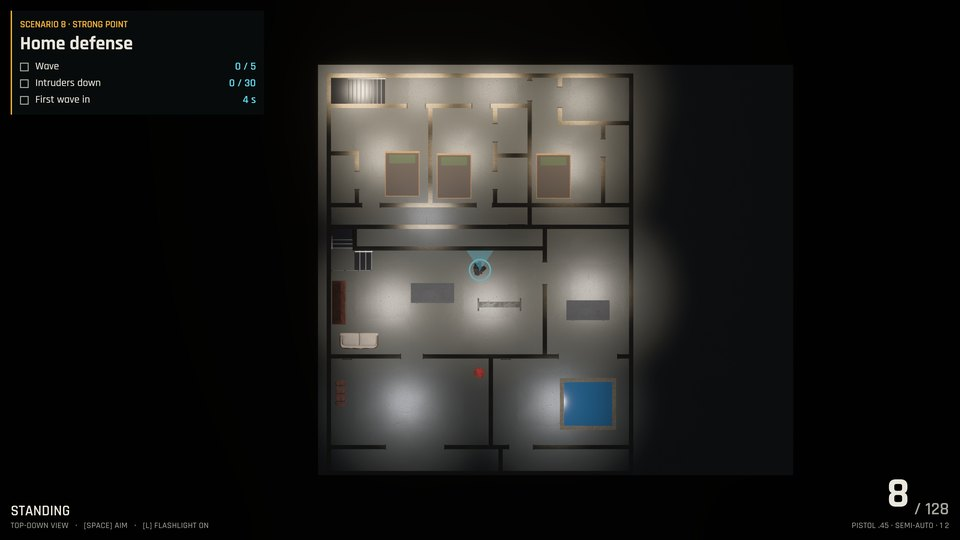
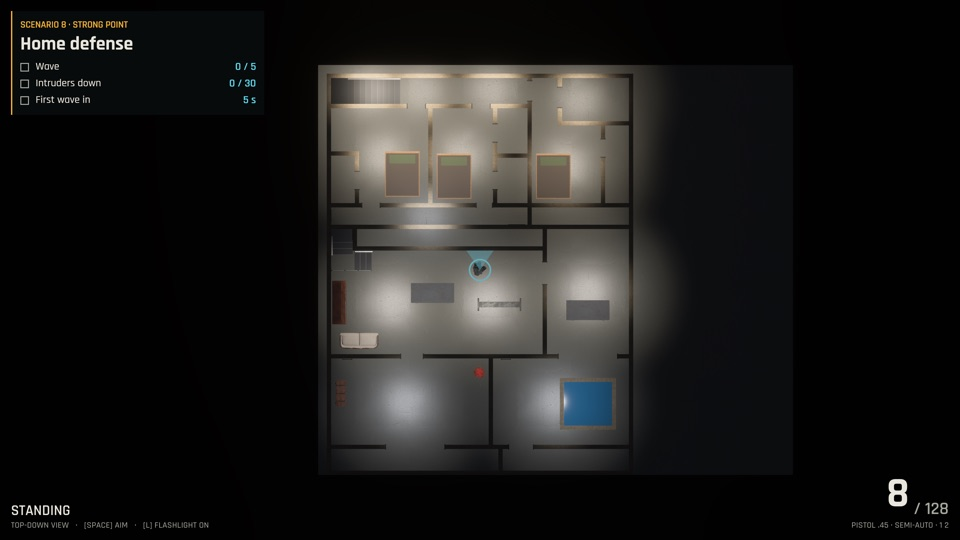
Signed app bundle with assets in Resources (fixes 'damaged' on download), clearer upstairs staircase; release 0.9.2

diff --git a/src/map.rs b/src/map.rs
@@ -413,7 +413,7 @@ pub static MAPS: [MapDef; 6] = [
             op("Suite 1 door", "S1", 3.6, 1.4, 4.5, 1.4, 0.0, 1.0, None), op("Suite 2 door", "S2", 6.6, 1.4, 7.5, 1.4, 0.0, 1.0, None), op("Master suite door", "Ms", 9.3, 0.2, 9.3, 1.2, 1.0, 0.0, None),
             op("Front door", "Lv", 3.3, 13.0, 4.4, 13.0, 0.0, -1.0, None), op("Gourmet opening", "Gm", 10.6, 13.0, 13.4, 13.0, 0.0, -1.0, None), op("Garage gate", "Yd", 2.6, 17.2, 5.4, 17.2, 0.0, -1.0, None),
         ],
-        lights: &[lt(1.4, 0.7, WARM, 0.85, false), lt(4.3, 0.7, WARM, 0.7, false), lt(7.6, 0.7, WARM, 0.7, false), lt(2.6, 3.7, WARM, 0.85, false), lt(6.2, 3.7, WARM, 0.85, false), lt(11.0, 4.1, WARM, 0.9, false), lt(11.6, 1.1, WARM, 0.6, false),
+        lights: &[lt(1.9, 0.7, WARM, 0.9, false), lt(4.3, 0.7, WARM, 0.7, false), lt(7.6, 0.7, WARM, 0.7, false), lt(2.6, 3.7, WARM, 0.85, false), lt(6.2, 3.7, WARM, 0.85, false), lt(11.0, 4.1, WARM, 0.9, false), lt(11.6, 1.1, WARM, 0.6, false),
             lt(4.6, 6.5, COOL, 0.35, false),
             lt(3.0, 10.5, NEUTRAL, 0.95, false), lt(7.4, 10.5, NEUTRAL, 0.95, false), lt(12.0, 10.0, NEUTRAL, 0.9, false), lt(3.6, 15.1, COOL, 0.6, false), lt(10.6, 15.1, COOL, 0.6, false)],
         // dez invasores de reserva: esperam na rua, fora da vista de quem está na casa, até a onda chamá-los
@@ -449,9 +449,9 @@ pub static MAPS: [MapDef; 6] = [
         // escada é uma passagem: o lance entra num vão escuro e continua no vão escuro do outro andar.
         portals: &[
             // sobe: do alto do lance do térreo ao patamar de baixo da escada do andar de cima
-            Portal { x1: 0.5, z1: 7.12, x2: 1.08, z2: 7.6, ex: 0.5, ez: 0.45, yaw: -1.5708, player: true, alt: false, ha: (1.6, 7.35), hb: (0.5, 1.85) },
+            Portal { x1: 0.5, z1: 7.12, x2: 1.08, z2: 7.6, ex: 0.8, ez: 0.7, yaw: -1.5708, player: true, alt: false, ha: (1.6, 7.35), hb: (-0.4, 0.7) },
             // desce: do patamar de baixo da escada de cima ao alto do lance do térreo
-            Portal { x1: 0.12, z1: 0.8, x2: 0.85, z2: 1.28, ex: 0.3, ez: 7.4, yaw: 3.1416, player: true, alt: false, ha: (0.5, 1.85), hb: (1.6, 7.35) },
+            Portal { x1: 0.12, z1: 0.12, x2: 0.55, z2: 1.28, ex: 0.3, ez: 7.4, yaw: 3.1416, player: true, alt: false, ha: (-0.4, 0.7), hb: (1.6, 7.35) },
             // escada de mão no canto do quintal: quem conhece o caminho sobe por ela e entra pela ponta da sacada
             Portal { x1: 0.3, z1: 13.3, x2: 1.4, z2: 14.0, ex: 0.75, ez: 6.5, yaw: 0.0, player: false, alt: true, ha: (0.85, 13.45), hb: (-0.4, 6.5) },
             // e pelo lado da piscina: sobe junto ao muro e entra pela outra ponta da sacada, perto da porta-balcão da suíte do meio
@@ -460,13 +460,15 @@ pub static MAPS: [MapDef; 6] = [
         ramps: &[
             // térreo: lance de baixo (sobe para oeste), patamar da curva e lance de cima (sobe para o norte, dentro do nicho)
             Ramp { x1: 1.19, z1: 8.1, x2: 2.0, z2: 9.0, along_x: true, a: 2.0, b: 1.19, ha: 0.0, hb: 0.57 },
+            // (o lance de cima vem antes do patamar na lista: onde os dois retângulos se cruzam vale o lance)
+            Ramp { x1: 0.1, z1: 7.1, x2: 1.1, z2: 8.3, along_x: false, a: 8.3, b: 7.45, ha: 0.57, hb: 1.14 },
             Ramp { x1: 0.1, z1: 8.0, x2: 1.19, z2: 9.0, along_x: true, a: 1.19, b: 0.1, ha: 0.57, hb: 0.57 },
-            Ramp { x1: 0.1, z1: 7.1, x2: 1.1, z2: 8.0, along_x: false, a: 8.0, b: 7.43, ha: 0.57, hb: 1.14 },
-            // andar de cima: do fim do corredor desce para oeste até o patamar de baixo
-            Ramp { x1: 0.1, z1: 0.1, x2: 2.6, z2: 1.3, along_x: true, a: 2.6, b: 0.9, ha: 0.0, hb: -1.66 },
+            // andar de cima: do fim do corredor desce para oeste, nove degraus de 27 cm, até o patamar de baixo
+            Ramp { x1: 0.1, z1: 0.1, x2: 3.3, z2: 1.3, along_x: true, a: 3.3, b: 0.9, ha: 0.0, hb: -1.66 },
         ],
-        pit: Some((0.1, 0.1, 2.6, 1.3, 1.66)),
-        darks: &[(1.085, 1.14, 7.12, 1.1, 2.78, 7.6), (0.12, -1.66, 1.285, 0.85, -0.02, 1.3), (0.1, 0.0, 6.2, 0.115, 2.0, 6.8), (8.3, 0.0, 6.885, 9.1, 2.0, 6.9)],
+        pit: Some((0.1, 0.1, 3.3, 1.3, 1.66)),
+        // vãos escuros: no alto do lance do térreo (parede do nicho), no fim da descida do andar de cima (em frente) e nas pontas da sacada
+        darks: &[(1.085, 1.14, 7.12, 1.1, 2.78, 7.6), (0.1, -1.66, 0.12, 0.115, -0.02, 1.28), (0.1, 0.0, 6.2, 0.115, 2.0, 6.8), (8.3, 0.0, 6.885, 9.1, 2.0, 6.9)],
     },
 ];
 

diff --git a/src/world.rs b/src/world.rs
@@ -318,8 +318,8 @@ pub fn spawn_map(commands: &mut Commands, meshes: &mut Assets<Mesh>, mats: &mut 
     // escuros por onde a escada continua para o outro andar e as escadas de mão do quintal. Os degraus são só desenho: a
     // altura de quem anda neles vem de `ramp_h`.
     if !map().ramps.is_empty() || !map().portals.is_empty() {
-        let granite = mats.add(StandardMaterial { base_color: Color::srgb(0.07, 0.07, 0.078), perceptual_roughness: 0.2, reflectance: 0.6, ..default() });
-        let pale = mats.add(StandardMaterial { base_color: Color::srgb(0.42, 0.42, 0.44), perceptual_roughness: 0.35, ..default() });
+        let granite = mats.add(StandardMaterial { base_color: Color::srgb(0.13, 0.13, 0.14), perceptual_roughness: 0.32, reflectance: 0.5, ..default() });
+        let pale = mats.add(StandardMaterial { base_color: Color::srgb(0.27, 0.27, 0.285), perceptual_roughness: 0.3, ..default() });
         let white = mats.add(StandardMaterial { base_color: Color::srgb(0.86, 0.86, 0.84), perceptual_roughness: 0.5, ..default() });
         let dark = mats.add(StandardMaterial { base_color: Color::BLACK, unlit: true, ..default() });
         let (mut steps, mut ladders, mut holes, mut lining) = (Vec::new(), Vec::new(), Vec::new(), Vec::new());
@@ -338,7 +338,7 @@ pub fn spawn_map(commands: &mut Commands, meshes: &mut Assets<Mesh>, mats: &mut 
                 steps.push(slab(c0, c1 + (c1 - c0).signum() * 0.004, h));
                 // friso claro na quina de cada degrau (o granito preto some no escuro) e corrimão branco na parede
                 let edge = if r.hb > r.ha { c0 } else { c1 };
-                let (e0, e1) = (edge.min(edge + (c1 - c0).signum() * if r.hb > r.ha { 0.04 } else { -0.04 }), edge.max(edge + (c1 - c0).signum() * if r.hb > r.ha { 0.04 } else { -0.04 }));
+                let (e0, e1) = (edge.min(edge + (c1 - c0).signum() * if r.hb > r.ha { 0.022 } else { -0.022 }), edge.max(edge + (c1 - c0).signum() * if r.hb > r.ha { 0.022 } else { -0.022 }));
                 nosing.push(if r.along_x { b3(e0, h, r.z1 + 0.002, e1, h + 0.006, r.z2 - 0.002) } else { b3(r.x1 + 0.002, h, e0, r.x2 - 0.002, h + 0.006, e1) });
             }
             // corrimão branco na parede, inclinado junto com o lance

diff --git a/src/bot.rs b/src/bot.rs
@@ -186,9 +186,9 @@ pub fn setup_bot(mut bot: ResMut<Bot>, mut time: ResMut<Time<Virtual>>) {
             Tp(1.7, 0.7, 1.5708, -0.5), Wait(25), Shot("cl-down"), Tp(3.4, 9.9, 1.037, -0.05), Wait(25), Shot("cl-niche"), Tp(1.6, 8.55, 1.5708, 0.1), Wait(25), Shot("cl-up"),
             Tp(2.6, 15.6, 0.611, 0.1), Wait(25), Shot("cl-ladder"), Tp(3.2, 6.5, 1.5708, -0.1), Wait(25), Shot("cl-terrace"), Quit],
         // o operador desce a escada andando (do corredor de cima até o térreo) e sobe de volta
-        "stairs" => vec![Wait(120), Scn(7), Wait(150), Confirm, Wait(20), Tp(4.6, 0.7, 1.5708, -0.3), Wait(20), Shot("st-1"), Go(0.5, 0.7, None), Go(0.5, 1.15, None), Wait(70), Snap("desceu"),
+        "stairs" => vec![Wait(120), Scn(7), Wait(150), Confirm, Wait(20), Tp(4.4, 0.7, 1.5708, -0.45), Wait(20), Shot("st-1"), Go(2.2, 0.7, None), Shot("st-1b"), Go(0.3, 0.7, None), Wait(70), Snap("desceu"),
             Tp(0.45, 7.45, 3.1416, -0.35), Wait(20), Shot("st-2"), Go(0.6, 8.5, None), Go(3.0, 8.55, None), Tp(3.4, 9.9, 1.037, -0.05), Wait(20), Shot("st-3"),
-            Tp(2.6, 8.55, 1.5708, 0.0), Go(0.6, 8.55, None), Go(0.6, 7.4, None), Go(1.0, 7.35, None), Wait(70), Snap("subiu"), Tp(0.5, 0.6, -1.5708, 0.25), Wait(20), Shot("st-4"), Quit],
+            Tp(2.6, 8.55, 1.5708, 0.0), Go(0.6, 8.55, None), Go(0.6, 7.4, None), Go(1.0, 7.35, None), Wait(70), Snap("subiu"), Tp(0.8, 0.7, -1.5708, 0.25), Wait(20), Shot("st-4"), Quit],
         "alarm" => vec![Wait(120), Map(1), Wait(120), Start(true), Wait(120), Near(false, 2, 4.0), Wait(120), Tp(2.0, 12.8, 0.0, 0.0), Wait(1500), Snap("alarme"), Shot("alarm"), Quit],
         // granada: parado fora da vista de ameaças alertadas (um tiro avisa o cômodo) até alguém lançar (CQB_NODEATH=1)
         "nade" => vec![Wait(120), Map(1), Wait(120), Start(true), Wait(120), Near(false, 2, 4.0), Wait(100), Tp(4.6, 7.0, 0.0, 0.0), WaitNade, Wait(60), Shot("nade-air"), Wait(70), Shot("nade-fp"), ViewTo(View::Bird), Wait(25), Shot("nade-top"), Wait(400), Snap("n1"), Shot("nade-after"), Quit],

diff --git a/src/main.rs b/src/main.rs
@@ -41,6 +41,17 @@ fn exit_log(mut close: EventReader<bevy::window::WindowCloseRequested>, mut exit
     for e in exit.read() { println!("BOT SAIDA pedida pelo jogo {:?} (modo {:?})", e, game.mode); }
 }
 
+/// Pasta dos recursos (modelos e texturas). Dentro do pacote .app eles ficam em Contents/Resources: em Contents/MacOS só pode
+/// haver código, senão a assinatura do pacote fica inválida e o macOS diz, em quem baixou o app, que ele está "danificado".
+fn asset_dir() -> String {
+    if std::env::var("BEVY_ASSET_ROOT").is_err() {
+        if let Some(d) = std::env::current_exe().ok().and_then(|e| e.parent().map(|d| d.to_path_buf())) {
+            if d.join("../Resources/assets").is_dir() { return "../Resources/assets".into(); }
+        }
+    }
+    "assets".into()
+}
+
 fn main() {
     if let Ok(dir) = std::env::var("CQB_DUMP") { art::dump(&dir); return; }
     // dificuldade inicial nos testes automáticos: CQB_DIFF=0 (easy), 1 (normal) ou 2 (hard)
@@ -63,7 +74,7 @@ fn main() {
         .add_plugins(DefaultPlugins.set(WindowPlugin {
             primary_window: Some(Window { title: "Point of Entry".into(), resolution: { let r = WindowResolution::new(world::env_f("CQB_W", 1440.0), world::env_f("CQB_H", 810.0)); match std::env::var("CQB_SCALE").ok().and_then(|s| s.parse::<f32>().ok()) { Some(sc) => r.with_scale_factor_override(sc), None => r } }, present_mode: if std::env::var("CQB_NOVSYNC").is_ok() { PresentMode::AutoNoVsync } else { PresentMode::AutoVsync }, ..default() }),
             ..default()
-        }).set(bevy::pbr::PbrPlugin { use_gpu_instance_buffer_builder: std::env::var("CQB_CPUB").is_err(), ..default() }))
+        }).set(AssetPlugin { file_path: asset_dir(), ..default() }).set(bevy::pbr::PbrPlugin { use_gpu_instance_buffer_builder: std::env::var("CQB_CPUB").is_err(), ..default() }))
         .add_plugins(TemporalAntiAliasPlugin)
         .add_event::<state::Sfx>()
         .add_event::<ui::ResetGame>()

diff --git a/site/build.py b/site/build.py
@@ -11,8 +11,8 @@ Change VERSION / SIZE below when a new release goes out.
 import base64, mimetypes, pathlib, re
 
 HERE = pathlib.Path(__file__).parent
-VERSION = "0.9.1"
-SIZE = "92 MB"
+VERSION = "0.9.2"
+SIZE = "91 MB"
 REPO = "https://github.com/cesarmour/point-of-entry"
 DOWNLOAD = f"{REPO}/releases/download/v{VERSION}/PointOfEntry-mac.zip"
 DESCRIPTION = ("Point of Entry is a free CQB teaching simulator for Mac: a shoot house with armed threats, hostages "
